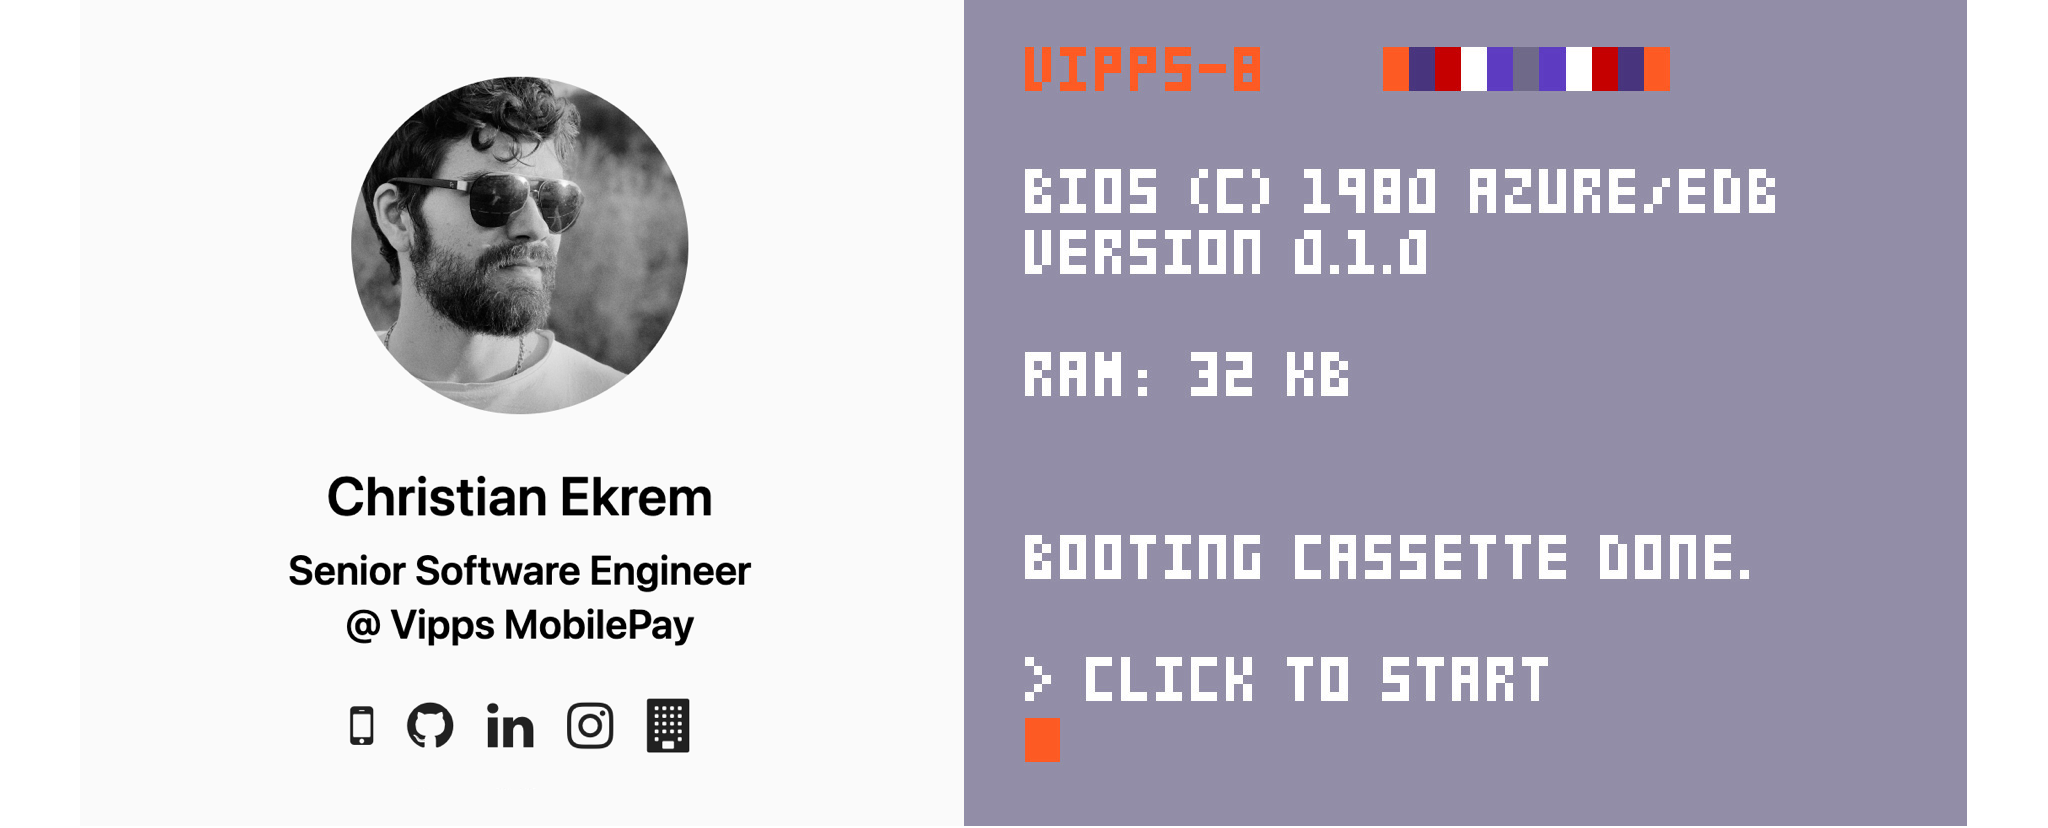
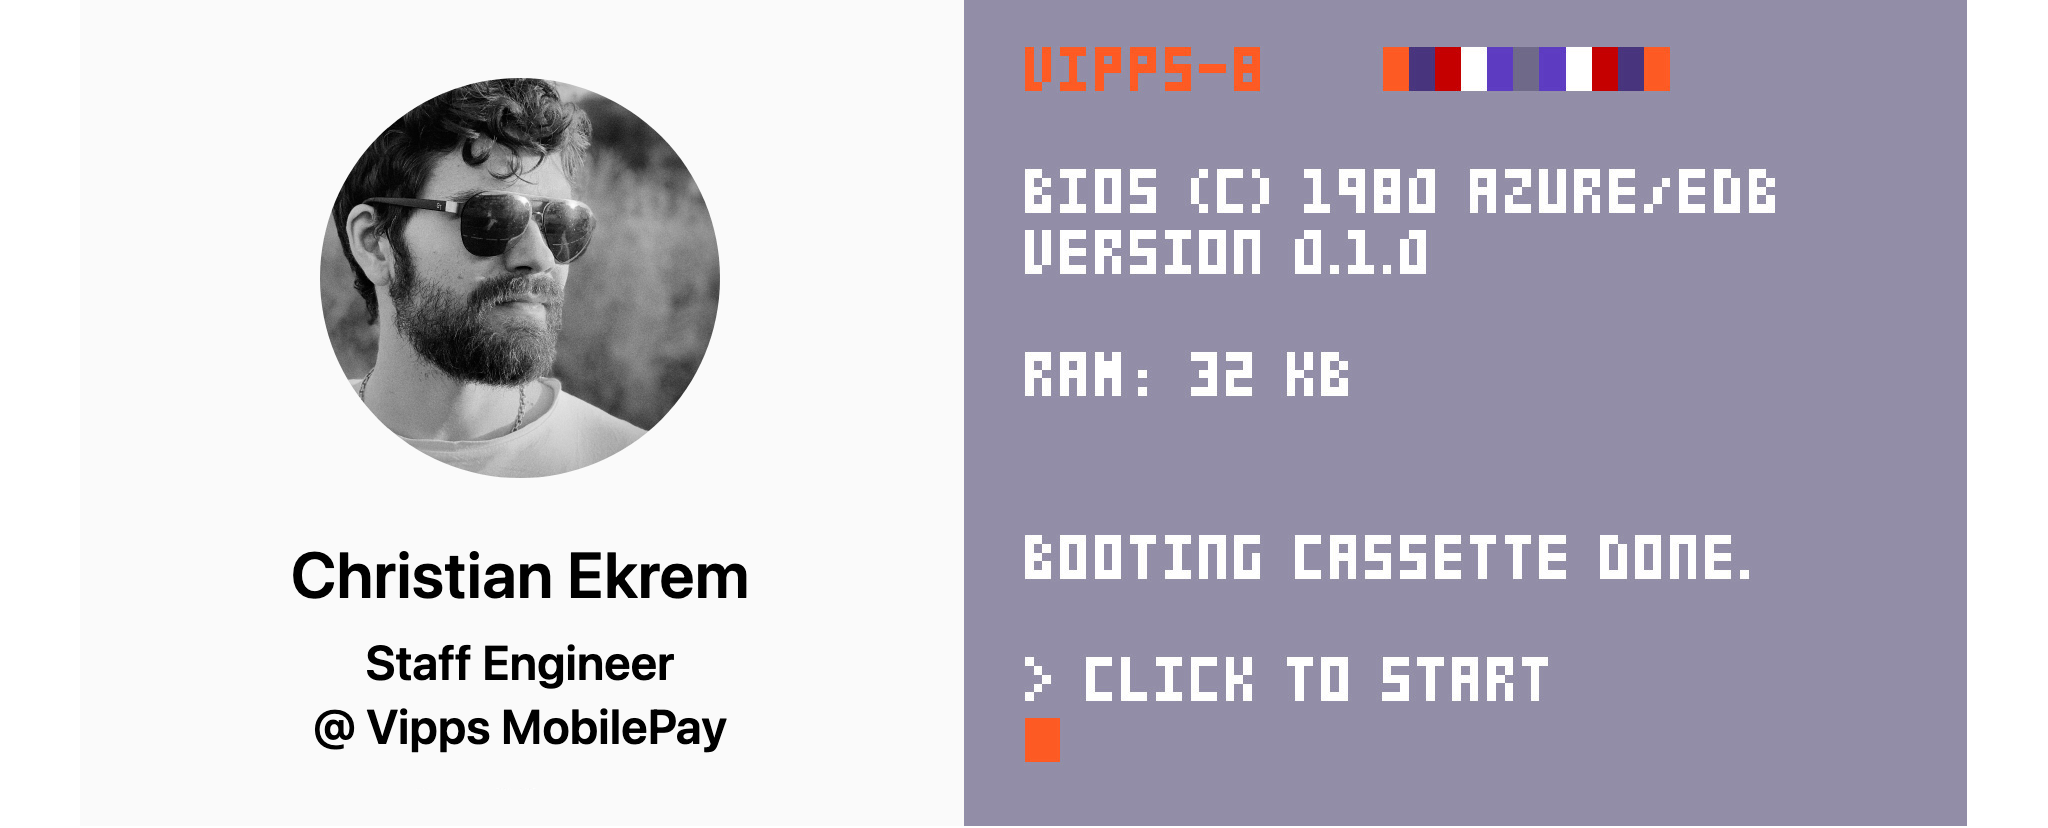
tweak about, front bio and featured img

Changed region(s): [[0.1562, 0.0906, 0.375, 0.6341], [0.125, 0.6643, 0.375, 0.9058]]

diff --git a/content/about.md b/content/about.md
@@ -5,15 +5,15 @@ date = "2021-07-07"
 
 ## What floats my boat
 
-- Following [Jesus](https://www.youtube.com/watch?v=p7XRPGzL6kk)
+- Following [Jesus](https://www.youtube.com/watch?v=p7XRPGzL6kk), being who he called me to be
 - Best. Wife. Ever.
 - Raising three incredible giant killers
 
 ## I also like
 
-- Telling stories in a creative way (AKA working in tech)
-- Music! Particularly playing drums or the guitar <3
-- Wilderness. In more ways than you'd expect!
+- Music! Particularly playing drums or the guitar!
+- Staying healthy, strong and fast
+- Wilderness and adventure. In more ways than you'd expect!
 - Super Smash Bros
 
 ## Top three values as a software engineer
